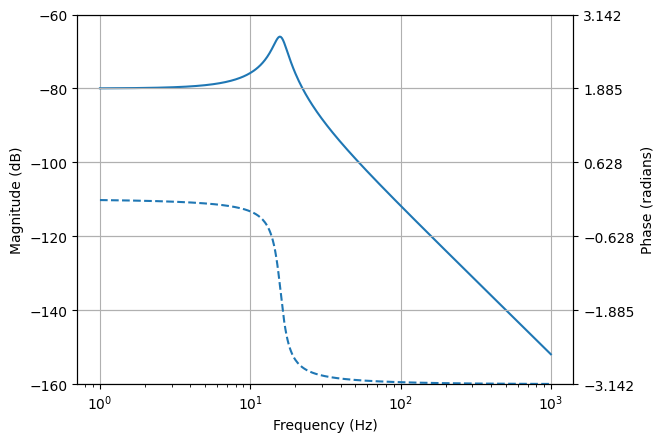
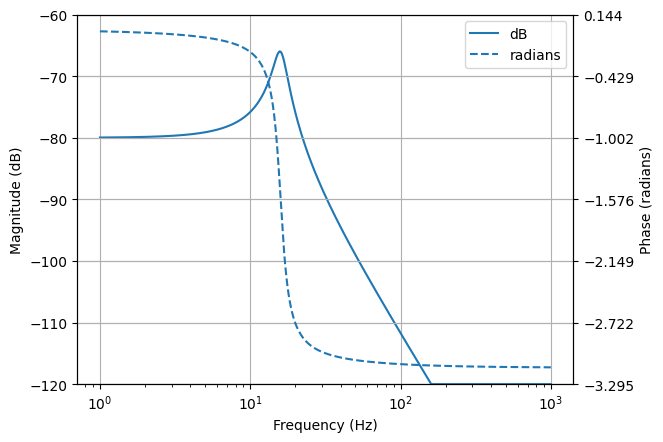
Unwrap phase for Bode plots by default

diff --git a/lcapy/plot.py b/lcapy/plot.py
@@ -210,7 +210,7 @@ def plot_pole_zero(obj, **kwargs):
 
 
 def plotit(ax, obj, f, V, plot_type=None, deltas=None, log_magnitude=False,
-           log_frequency=False, norm=False, dbmin=-120, **kwargs):
+           log_frequency=False, norm=False, dbmin=-120, unwrap=False, **kwargs):
 
     plots = {(True, True): ax.loglog,
              (True, False): ax.semilogy,
@@ -243,10 +243,14 @@ def plotit(ax, obj, f, V, plot_type=None, deltas=None, log_magnitude=False,
         units = 'dB'
     elif plot_type == 'radians':
         V = np.angle(V)
+        if unwrap:
+            V = np.unwrap(V)
         part = 'phase'
         units = 'radians'
     elif plot_type == 'degrees':
-        V = np.degrees(np.angle(V))
+        if unwrap:
+            V = np.unwrap(V)
+        V = np.degrees(V)
         part = 'phase'
         units = 'degrees'
 
@@ -315,6 +319,7 @@ def plot_frequency(obj, f, plot_type=None, **kwargs):
     nyticks = kwargs.pop('nyticks', None)
     color2 = kwargs.pop('color2', None)
     linestyle2 = kwargs.pop('linestyle2', '--')
+    unwrap = kwargs.pop('unwrap', False)
 
     # FIXME, determine useful frequency range...
     if f is None:
@@ -341,10 +346,11 @@ def plot_frequency(obj, f, plot_type=None, **kwargs):
 
     V = obj.evaluate(f)
 
-    types = ['dB-phase', 'dB-radians', 'dB-phase-degrees', 'dB-degrees',
-             'mag-phase', 'magnitude-phase', 'mag-phase-degrees', 'magnitude-phase-degrees',
-             'real-imag', 'mag', 'magnitude', 'phase', 'radians', 'phase-degrees',
-             'degrees', 'real', 'imag', 'dB', 'abs']
+    types = ['dB-phase', 'dB-radians', 'dB-phase-degrees',
+             'dB-degrees', 'mag-phase', 'magnitude-phase',
+             'mag-phase-degrees', 'magnitude-phase-degrees',
+             'real-imag', 'mag', 'magnitude', 'phase', 'radians',
+             'phase-degrees', 'degrees', 'real', 'imag', 'dB', 'abs']
     if plot_type is not None and plot_type not in types:
         raise ValueError('Unknown plot type %s, expecting: %s ' %
                          (plot_type, ', '.join(types)))
@@ -405,9 +411,10 @@ def plot_frequency(obj, f, plot_type=None, **kwargs):
     if label is None:
         label = plot1_type
 
-    lines = plotit(ax, obj, f, V, plot1_type, deltas, log_frequency=log_frequency,
-                   log_magnitude=log_magnitude, norm=norm, label=label,
-                   dbmin=dbmin, **kwargs)
+    lines = plotit(ax, obj, f, V, plot1_type, deltas,
+                   log_frequency=log_frequency,
+                   log_magnitude=log_magnitude, norm=norm,
+                   label=label, dbmin=dbmin, unwrap=unwrap, **kwargs)
 
     if plot2_type is None:
         return ax
@@ -429,11 +436,11 @@ def plot_frequency(obj, f, plot_type=None, **kwargs):
 
     plotit(ax2, obj, f, V, plot2_type, deltas, log_frequency=log_frequency,
            log_magnitude=log_magnitude, norm=norm, second=True, color=color2,
-           linestyle=linestyle2, **kwargs)
+           linestyle=linestyle2, unwrap=unwrap, **kwargs)
 
-    if plot2_type in ('phase', 'radians'):
+    if plot2_type in ('phase', 'radians') and not unwrap:
         ax2.set_ylim(-np.pi, np.pi)
-    elif plot2_type in ('phase-degrees', 'degrees'):
+    elif plot2_type in ('phase-degrees', 'degrees') and not unwrap:
         ax2.set_ylim(-180, 180)
 
     if plot1_type == 'dB':
@@ -487,6 +494,8 @@ def plot_bode(obj, f, **kwargs):
 
     if 'log_frequency' not in kwargs:
         kwargs['log_frequency'] = True
+    if 'unwrap' not in kwargs:
+        kwargs['unwrap'] = True
 
     return plot_frequency(obj, f, **kwargs)
 

diff --git a/doc/expressions.rst b/doc/expressions.rst
@@ -2200,16 +2200,19 @@ Here's an example of the `plot()` method for Fourier-domain expressions:
    :width: 12cm
 
 The type of plot for complex frequency-domain expressions is
-controlled by the `plot_type` argument.  By default this is
-`dB-phase` for complex expressions which plots both the magnitude as dB and the phase.
-Other choices are `real`, `imag`, `magnitude`, `phase`, `real-imag`, `magnitude-phase`, `dB`,
-`degrees`, and `radians`.
+controlled by the `plot_type` argument.  By default this is `dB-phase`
+for complex expressions which plots both the magnitude as dB and the
+phase.  Other choices are `real`, `imag`, `magnitude`, `phase`,
+`real-imag`, `magnitude-phase`, `dB`, `degrees`, and `radians`.
 
 Frequencies are shown on a linear scale by default.  A logarithmic
 scale is used if `log_frequency=True` is specified.
 
 Magnitudes are shown on a linear scale by default.  A logarithmic
 scale is used if `log_magnitude=True` is specified.
+
+Phases are wrapped unless `unwrap=True` is specified to avoid
+discontinuites of math:`\pi`.
 
 The frequency domain `plot()` method returns the axes used in the plot.
 If there are two sets of axes, such as for a magnitude/phase or
@@ -2225,7 +2228,7 @@ real/imaginary plot, these are returned as a tuple.  For example::
 Bode plots
 ----------
 
-Bode plots are similar to frequency domain plots but plot both the magnitude (in dB) and the phase (in radians) as a function of logarithmic frequency.
+Bode plots are similar to frequency domain plots but plot both the magnitude (in dB) and the phase (in radians) as a function of logarithmic frequency.  The phase is unwrapped by default to avoid discontinuites of :math:`\pi`.
 
 .. literalinclude:: examples/plotting/bode1.py
 
